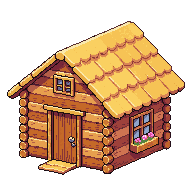
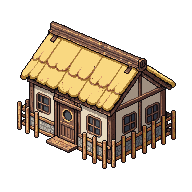
v84.7-0: 房屋全換中式木屋、招牌文字清除；傳送卷軸地點清空；地區依新島重新劃分命名
Claude-Session: https://claude.ai/code/session_01TfDhagCiaMjipPx8vrMTLg

diff --git a/index.html b/index.html
@@ -3218,7 +3218,17 @@ function buildWorld(){
   const entries={ village:{ n:[gates.n.x+0.5,gates.n.y-2] }, cross_w:{ s:[caveX,caveY+2] } };
   WORLD={shallow:shallow,landmarks:_lm,W:W,H:H,rid:rid,regions:regions,byId:byId,spawnTiles:spawnTiles,entries:entries,gates:gates,vx0:vx0,vy0:vy0,inside:inside};
   if(WORLD_BLANK_SLATE){                                                  // 全部清空：整張地圖只剩海洋，沒有島、沒有村、沒有房屋（準備從零重新設計）
-    WORLD.spawnTiles=regions.map(function(){ return []; }); MAP_WARPS['world']=[]; WORLD.landmarks=[]; regions.forEach(function(R){ R.name=''; });   // 地標與區域名稱一併移除
+    WORLD.spawnTiles=regions.map(function(){ return []; }); MAP_WARPS['world']=[]; WORLD.landmarks=[]; regions.forEach(function(R){ R.name=''; });   // 先清空，再依新島的山、河、平原重新劃分
+    {                                                                      // 重新定義地區：id沿用(程式邏輯用)，位置、名稱全部重訂。沒用到的id移到海外、不佔任何陸地
+      const NEWR={ village:['桃源村',null,null,30], cross_n:['渡溪坡',172,160,24], north_island:['雲隱嶺',190,95,40], cross_w:['落英谷',130,150,26], cross_e:['青陵原',225,150,30],
+        hunt_w:['翠竹徑',122,226,18], hunt_e:['東籬坡',228,228,28], cross_s:['梅香坡',170,262,24], hunt_s:['落霞山',182,292,28] };
+      regions.forEach(function(R){ const d=NEWR[R.id]; if(!d){ R.cx=-9999; R.cy=-9999; R.r=1; R.name=''; MAP_NAME[R.id]=''; return; }
+        R.name=d[0]; MAP_NAME[R.id]=d[0]; if(d[1]!==null){ R.cx=d[1]; R.cy=d[2]; } R.r=d[3]; });
+      const _vcx=WORLD_V.vx0+28, _vcy=WORLD_V.vy0+25.5;                       // 村子範圍＝竹圍牆圈起來的圓角區域
+      for(let y=0;y<H;y++)for(let x=0;x<W;x++){ const i=y*W+x; inside[i]=(Math.pow(Math.abs((x-_vcx)/26),4)+Math.pow(Math.abs((y-_vcy)/22.5),4)<=1)?1:0; }
+      for(let y=0;y<H;y++)for(let x=0;x<W;x++){ const i=y*W+x; if(inside[i]){ rid[i]=V.idx; continue; }
+        let best=1e9, bi=0; for(let k=0;k<regions.length;k++){ const R=regions[k]; if(R.id==='village') continue; const dd=Math.hypot(x-R.cx,y-R.cy)/R.r; if(dd<best){ best=dd; bi=k; } } rid[i]=bi; }
+    }
   }
   return {name:WORLD_BLANK_SLATE?'':V.name,id:'world',world:true,wild:false,grid:g,houses:houses,exits:{},px:V.cx*TS,py:V.cy*TS,W:W,H:H};
 }
@@ -3906,7 +3916,7 @@ function poly(pts,fill,stroke){ ctx.beginPath(); ctx.moveTo(pts[0].x,pts[0].y);
   if(fill){ctx.fillStyle=fill;ctx.fill();} if(stroke){ctx.strokeStyle=stroke;ctx.lineWidth=1;ctx.stroke();} }
 /* 中式木屋美術(assets/objects/houses)：每種都有固定的地基格數(w x d)，錨點＝圖內「最靠近鏡頭的前角」落地點；樣式=農舍/民宅/商鋪/鐵匠/藥鋪/客棧/長老屋/倉房/仙觀/涼亭 */
 /* v2 美術(assets/v2/obj)：PixelLab 重新製作的桃花島素材；錨點＝透明邊界裁切後的「底部中央」，用 v2Draw(key,落地x,落地y,縮放,是否水平翻轉) 貼圖 */
-const V2_META={"big_peach":{"w":192,"h":192,"bx0":10,"by0":10,"bx1":182,"by1":182},"bridge":{"w":192,"h":128,"bx0":8,"by0":23,"bx1":190,"by1":117},"bush0":{"w":64,"h":64,"bx0":6,"by0":7,"bx1":58,"by1":55},"cabin_shingle":{"w":192,"h":192,"bx0":10,"by0":9,"bx1":182,"by1":168},"cabin_thatch":{"w":192,"h":192,"bx0":7,"by0":21,"bx1":185,"by1":175},"crops":{"w":128,"h":96,"bx0":30,"by0":25,"bx1":100,"by1":72},"dock":{"w":192,"h":192,"bx0":28,"by0":28,"bx1":170,"by1":160},"elder":{"w":192,"h":192,"bx0":7,"by0":32,"bx1":185,"by1":157},"fence_picket":{"w":64,"h":64,"bx0":11,"by0":5,"bx1":52,"by1":59},"fence_rail":{"w":64,"h":64,"bx0":9,"by0":4,"bx1":56,"by1":60},"gate":{"w":192,"h":192,"bx0":10,"by0":22,"bx1":181,"by1":169},"gate_iso":{"w":192,"h":192,"bx0":16,"by0":4,"bx1":176,"by1":188},"granary":{"w":160,"h":192,"bx0":5,"by0":16,"bx1":153,"by1":166},"inn":{"w":256,"h":224,"bx0":29,"by0":6,"bx1":227,"by1":209},"medic":{"w":192,"h":192,"bx0":22,"by0":12,"bx1":171,"by1":162},"pavilion":{"w":160,"h":192,"bx0":9,"by0":11,"bx1":148,"by1":181},"rock0":{"w":192,"h":192,"bx0":26,"by0":14,"bx1":165,"by1":187},"scarecrow":{"w":96,"h":128,"bx0":2,"by0":5,"bx1":94,"by1":128},"shop":{"w":192,"h":192,"bx0":6,"by0":5,"bx1":188,"by1":190},"smith":{"w":192,"h":192,"bx0":8,"by0":12,"bx1":187,"by1":181},"temple":{"w":192,"h":192,"bx0":30,"by0":24,"bx1":164,"by1":160},"tree_bamboo0":{"w":128,"h":160,"bx0":20,"by0":12,"bx1":108,"by1":149},"tree_broad0":{"w":128,"h":160,"bx0":10,"by0":8,"bx1":120,"by1":150},"tree_peach0":{"w":128,"h":160,"bx0":14,"by0":25,"bx1":114,"by1":135},"tree_pine0":{"w":128,"h":160,"bx0":22,"by0":6,"bx1":106,"by1":154},"tree_willow0":{"w":128,"h":160,"bx0":13,"by0":7,"bx1":115,"by1":153},"wall_stone":{"w":64,"h":64,"bx0":5,"by0":5,"bx1":58,"by1":58},"well":{"w":96,"h":128,"bx0":13,"by0":7,"bx1":83,"by1":118},"mt_peak":{"w":192,"h":192,"bx0":13,"by0":6,"bx1":185,"by1":181},"mt_ridge":{"w":192,"h":192,"bx0":5,"by0":3,"bx1":186,"by1":181},"mt_hill":{"w":128,"h":128,"bx0":8,"by0":16,"bx1":119,"by1":105}};
+const V2_META={"big_peach":{"w":192,"h":192,"bx0":10,"by0":10,"bx1":182,"by1":182},"bridge":{"w":192,"h":128,"bx0":8,"by0":23,"bx1":190,"by1":117},"bush0":{"w":64,"h":64,"bx0":6,"by0":7,"bx1":58,"by1":55},"cabin_shingle":{"w":192,"h":192,"bx0":8,"by0":18,"bx1":184,"by1":171},"cabin_thatch":{"w":192,"h":192,"bx0":17,"by0":21,"bx1":175,"by1":168},"crops":{"w":128,"h":96,"bx0":30,"by0":25,"bx1":100,"by1":72},"dock":{"w":192,"h":192,"bx0":28,"by0":28,"bx1":170,"by1":160},"elder":{"w":192,"h":192,"bx0":7,"by0":32,"bx1":185,"by1":157},"fence_picket":{"w":64,"h":64,"bx0":11,"by0":5,"bx1":52,"by1":59},"fence_rail":{"w":64,"h":64,"bx0":9,"by0":4,"bx1":56,"by1":60},"gate":{"w":192,"h":192,"bx0":10,"by0":22,"bx1":181,"by1":169},"gate_iso":{"w":192,"h":192,"bx0":16,"by0":4,"bx1":176,"by1":188},"granary":{"w":160,"h":192,"bx0":5,"by0":16,"bx1":153,"by1":166},"inn":{"w":192,"h":192,"bx0":7,"by0":10,"bx1":187,"by1":182},"medic":{"w":192,"h":192,"bx0":9,"by0":10,"bx1":184,"by1":180},"pavilion":{"w":160,"h":192,"bx0":9,"by0":11,"bx1":148,"by1":181},"rock0":{"w":192,"h":192,"bx0":26,"by0":14,"bx1":165,"by1":187},"scarecrow":{"w":96,"h":128,"bx0":2,"by0":5,"bx1":94,"by1":128},"shop":{"w":192,"h":192,"bx0":7,"by0":15,"bx1":183,"by1":174},"smith":{"w":192,"h":192,"bx0":14,"by0":15,"bx1":176,"by1":176},"temple":{"w":192,"h":192,"bx0":30,"by0":24,"bx1":164,"by1":160},"tree_bamboo0":{"w":128,"h":160,"bx0":20,"by0":12,"bx1":108,"by1":149},"tree_broad0":{"w":128,"h":160,"bx0":10,"by0":8,"bx1":120,"by1":150},"tree_peach0":{"w":128,"h":160,"bx0":14,"by0":25,"bx1":114,"by1":135},"tree_pine0":{"w":128,"h":160,"bx0":22,"by0":6,"bx1":106,"by1":154},"tree_willow0":{"w":128,"h":160,"bx0":13,"by0":7,"bx1":115,"by1":153},"wall_stone":{"w":64,"h":64,"bx0":5,"by0":5,"bx1":58,"by1":58},"well":{"w":96,"h":128,"bx0":13,"by0":7,"bx1":83,"by1":118},"mt_peak":{"w":192,"h":192,"bx0":13,"by0":6,"bx1":185,"by1":181},"mt_ridge":{"w":192,"h":192,"bx0":5,"by0":3,"bx1":186,"by1":181},"mt_hill":{"w":128,"h":128,"bx0":8,"by0":16,"bx1":119,"by1":105}};
 const V2_IMGS={}; Object.keys(V2_META).forEach(function(k){ const im=new Image(); im.src="assets/v2/obj/"+k+".png"; V2_IMGS[k]=im; });
 function v2Draw(key,x,y,sc,flip){ const im=V2_IMGS[key], m=V2_META[key]; if(!im||!im.complete||!im.naturalWidth) return false; sc=sc||1;
   const bw=(m.bx1-m.bx0)*sc, bh=(m.by1-m.by0)*sc, dx=x-bw/2, dy=y-bh;
@@ -8775,11 +8785,7 @@ function toggleWin(id){ const el=document.getElementById(id); el.classList.toggl
   if(id==='mapw'&&el.classList.contains('on')) drawMiniMap();
   if(id==='inv'&&!el.classList.contains('on')) invMove=null;
   if(el.classList.contains('on')) navBuildPanel(id); else navClear(); }
-const TELE_REGIONS=[
-  [ISLAND_NAME,[MAP_NAME.village,'史萊姆競技場',MAP_NAME.scarecrow,MAP_NAME.north_island,MAP_NAME.port_n,MAP_NAME.port_e,MAP_NAME.hunt_e,MAP_NAME.hunt_w,MAP_NAME.hunt_s,'冒險洞穴1樓','冒險洞穴2樓']],
-  ['妖精森林',['妖精森林']],
-  ['銀騎士地區',['銀騎士村莊']],
-];
+const TELE_REGIONS=[];   // 傳送卷軸地點：全部清空，等新地區定義好再逐一加入
 let teleCollapsed={};   // 地區收摺狀態（收摺後只顯示地區名）
 function openTeleport(){ const w=document.getElementById('teleportw'), list=document.getElementById('teleList'); if(!list)return;
   list.innerHTML='';
@@ -11483,7 +11489,7 @@ function drawSlotEmpty(x){ x.clearRect(0,0,200,200); }
 })();
 /* ============ 更新系統（登入首頁） ============ */
 // 版本號：每次正式更新時，這裡和 sw.js 的 CACHE_VERSION 一起遞增
-const GAME_VER='v84.6-0';
+const GAME_VER='v84.7-0';
 let _updNew=null;
 async function checkUpdate(manual){
   const msg=document.getElementById('updMsg'), btn=document.getElementById('updBtn');

diff --git a/sw.js b/sw.js
@@ -2,7 +2,7 @@
 // 讓遊戲可以「安裝到桌面/主畫面」成為獨立App，並提供離線快取(圖片/音效載入過一次後，
 // 離線或網路不穩時也能照常遊玩；index.html本身每次都優先抓最新版，確保更新後玩家能立刻拿到新內容)。
 
-const CACHE_VERSION = 'v84.6-0';           // 每次正式更新版本號時手動遞增，瀏覽器才會清掉舊快取換新的
+const CACHE_VERSION = 'v84.7-0';           // 每次正式更新版本號時手動遞增，瀏覽器才會清掉舊快取換新的
 const SHELL_CACHE = 'lineage-pixel-shell-' + CACHE_VERSION;
 const ASSET_CACHE  = 'lineage-pixel-assets-' + CACHE_VERSION;
 
